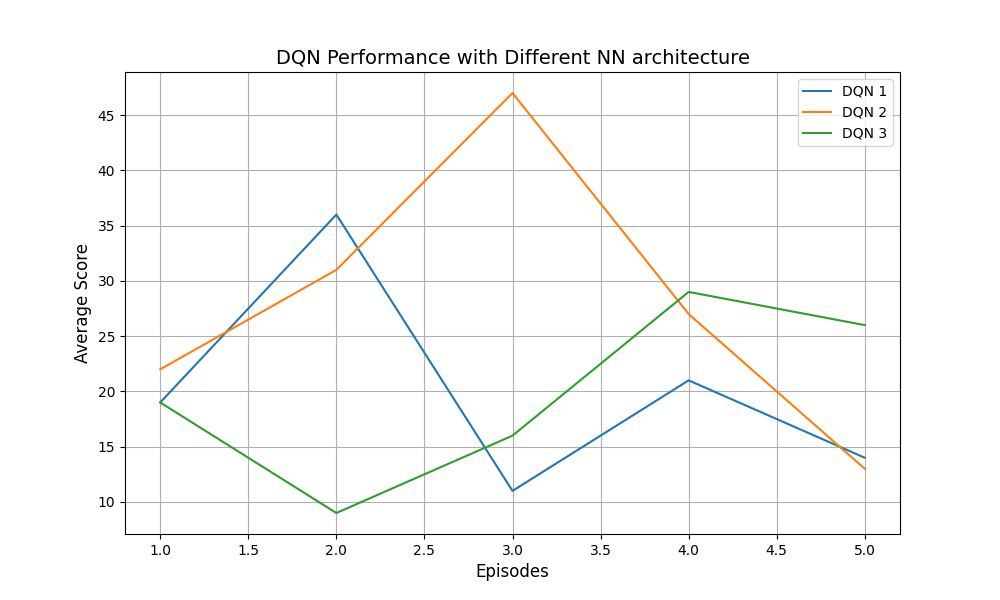
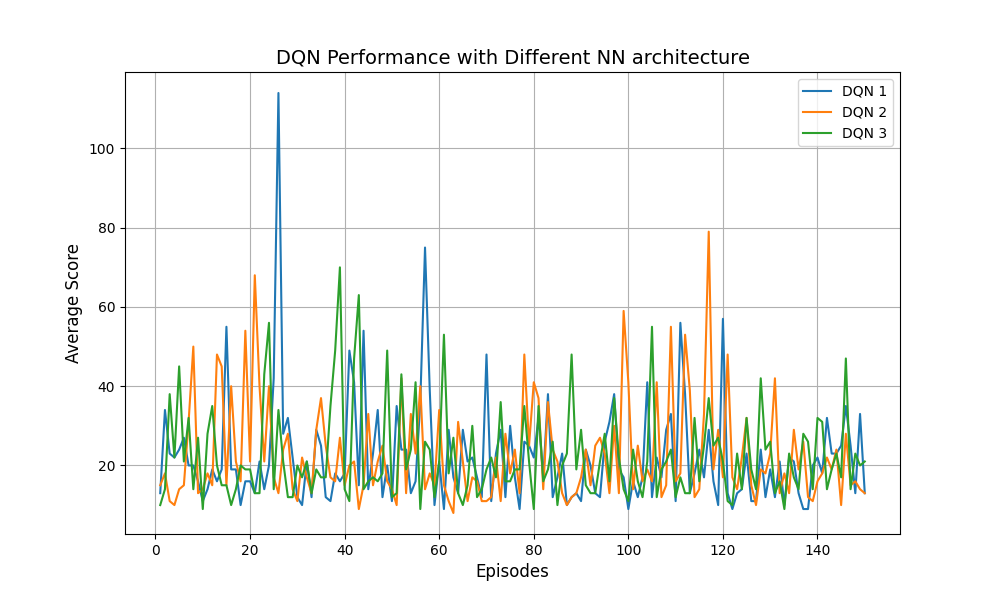
Expeirment done, redoing for 200 ep each

diff --git a/Experiment.py b/Experiment.py
@@ -7,7 +7,7 @@ import matplotlib.pyplot as plt
 def make_plot(perf, max_episodes, file_name, title):
     x = np.arange(1, max_episodes+1)
     j=0
-    print(x, perf.values())
+
     plt.figure(figsize=(10, 6))
     for y in perf.values():
         j+=1
@@ -20,10 +20,10 @@ def make_plot(perf, max_episodes, file_name, title):
     plt.legend(prop={'size':10})
     plt.grid(True)
     plt.savefig("Pics/"+file_name)
-    plt.show()
+    # plt.show()
 
 def nn_experiment():
-    max_episodes = 150
+    max_episodes = 200
     npls = [[32], [32,32], [32,32,32]]
     
     learning_rate = 0.001
@@ -36,25 +36,22 @@ def nn_experiment():
     batch_size = 32 
 
     perf = {str(npl):[] for npl in npls}
-    perf_mean = {}
     for npl in npls:
-        # for _ in range(10):
         agent = DQNAgent(state_size=state_size,
-                            action_size=action_size,
-                            learning_rate=learning_rate,
-                            gamma=gamma,
-                            policy=policy,
-                            batch_size=batch_size,
-                            epsilon=epsilon,
-                            npl=npl,
-                            max_episodes=max_episodes)
+                        action_size=action_size,
+                        learning_rate=learning_rate,
+                        gamma=gamma,
+                        policy=policy,
+                        batch_size=batch_size,
+                        epsilon=epsilon,
+                        npl=npl,
+                        max_episodes=max_episodes)
     
         scores = agent.run_experiment()
         perf[str(npl)].append(scores)
-        # perf_mean.append(np.mean(scores))
 
     print("Averges after 10 runns of each config: ")
-    for k, v in zip(perf.keys(), perf_mean):
+    for k, v in zip(perf.keys(), perf.values()):
         print("{} : {}+/-{}".format(k,np.means(v[0]), np.std(v[0])))
 
     title = 'DQN Performance with Different NN architecture'
